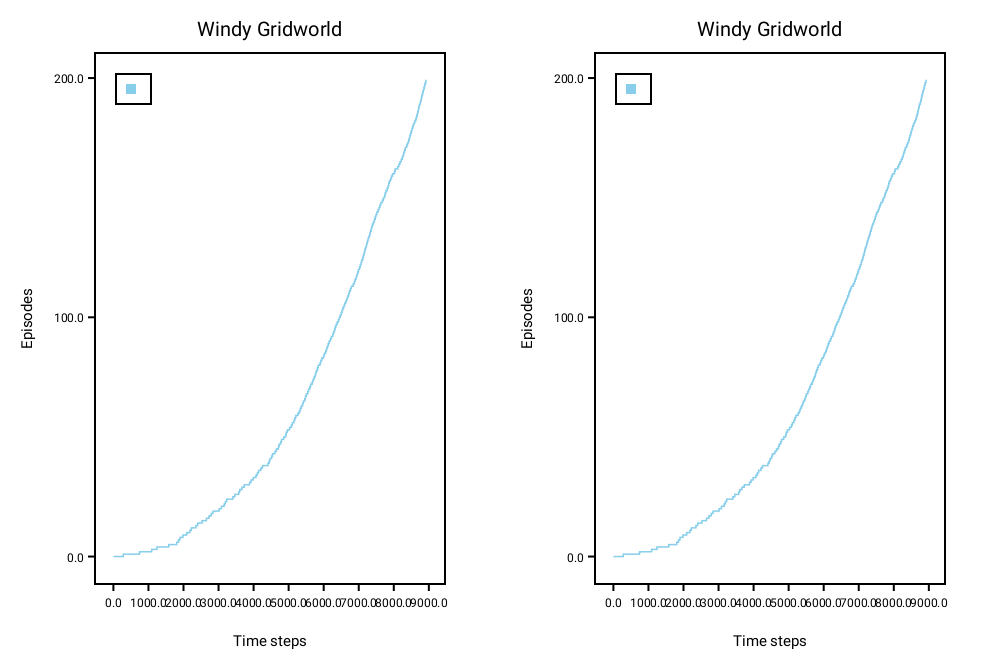
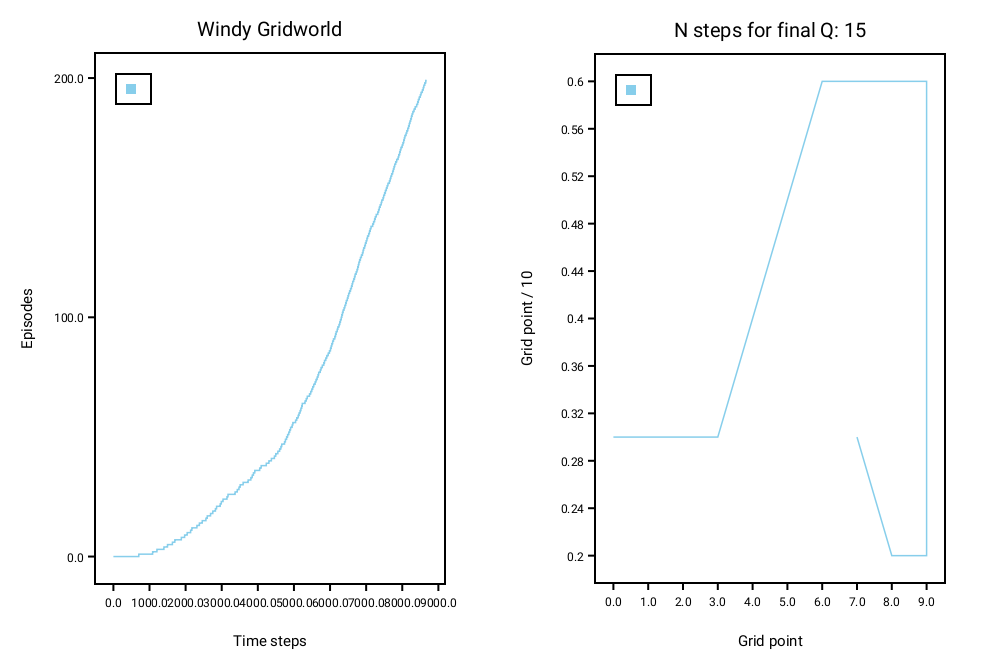
add Fig 6.3, update Examples 6.5, 6.6

diff --git a/Sources/Chapter6/main.swift b/Sources/Chapter6/main.swift
@@ -323,13 +323,13 @@ func make_example_6_5() {
     lineGraph.plotTitle.title = "Windy Gridworld"
 
     var lineGraph2 = LineGraph<Double, Double>()
-    lineGraph2.addSeries(xTrajectory.map { Double($0) }, yTrajectory.map { Double($0) }, label: "")
+    // Bug in SwiftPlot's LineGraph preventing lineGraph2 from being plotted without scaling y values to be less than 2
+    lineGraph2.addSeries(xTrajectory.map { Double($0) }, yTrajectory.map { Double($0) / 10 }, label: "")
     lineGraph2.plotTitle.title = "N steps for final Q: \(xTrajectory.count-1)"
+    lineGraph2.plotLabel.xLabel = "Grid point"
+    lineGraph2.plotLabel.yLabel = "Grid point / 10"
 
-    // Bug in SwiftPlot's LineGraph preventing lineGraph2 from being plotted
-    // Disable for now
-    // subplot.plots = [lineGraph, lineGraph2]
-    subplot.plots = [lineGraph, lineGraph]
+    subplot.plots = [lineGraph, lineGraph2]
     try? subplot.drawGraphAndOutput(fileName: "Output/Chapter6/Example_6.5", renderer: aggRenderer)
 }
 
@@ -347,6 +347,83 @@ func computeMean(allRewardsRuns: [[Int]]) -> [Double] {
     return means
 }
 
+func runSarsa(cliffWorld: CliffWorld, alpha: Double, epsilon: Double, maxEpisodes: Int, initialS: Point, terminalS: Point) -> ([[Double]], [Int]) {
+    var Q = Array(repeating: Array(repeating: 0.0, count: 4), count: cliffWorld.nX * cliffWorld.nY)
+    var nCompletedEpisodes = 0
+    var sumRewardTracker = [Int]()
+
+    while nCompletedEpisodes < maxEpisodes {
+        var S = initialS
+        var A = chooseActionFromQ(Q: Q, S: S, epsilon: epsilon, gridWorld: cliffWorld)
+        var sumReward = 0
+        while S != terminalS {
+            let nextSAndR = cliffWorld.move(S, A)
+            let nextS = nextSAndR.0
+            let R = nextSAndR.1
+            sumReward += R
+
+            let nextA = chooseActionFromQ(Q: Q, S: nextS, epsilon: epsilon, gridWorld: cliffWorld)
+            let currentQ = Q[cliffWorld.gridToInt(S)][A.rawValue]
+            let nextQ = (nextS == terminalS) ? 0 : Q[cliffWorld.gridToInt(nextS)][nextA.rawValue]
+            Q[cliffWorld.gridToInt(S)][A.rawValue] += alpha * (Double(R) + nextQ - currentQ)
+
+            S = nextS
+            A = nextA
+        }
+        nCompletedEpisodes += 1
+        sumRewardTracker.append(sumReward)
+    }
+    return (Q, sumRewardTracker)
+}
+
+func runQLearning(cliffWorld: CliffWorld, alpha: Double, epsilon: Double, maxEpisodes: Int, initialS: Point, terminalS: Point, expectedSarsa: Bool = false) -> ([[Double]], [Int]) {
+    var Q = Array(repeating: Array(repeating: 0.0, count: 4), count: cliffWorld.nX * cliffWorld.nY)
+    var sumRewardTracker = [Int]()
+
+    var nCompletedEpisodes = 0
+    while nCompletedEpisodes < maxEpisodes {
+        var S = initialS
+        var sumReward = 0
+        while S != terminalS {
+            let A = chooseActionFromQ(Q: Q, S: S, epsilon: epsilon, gridWorld: cliffWorld)
+            let nextSAndR = cliffWorld.move(S, A)
+            let nextS = nextSAndR.0
+            let R = nextSAndR.1
+            sumReward += R
+
+            let currentQ = Q[cliffWorld.gridToInt(S)][A.rawValue]
+            var nextQ = 0.0
+
+            if nextS != terminalS {
+                let nextSInt = cliffWorld.gridToInt(nextS)
+                if expectedSarsa {
+                    let maxQ = Q[nextSInt].max()
+                    let maxQIndices = Q[nextSInt].indices.filter { Q[nextSInt][$0] == maxQ }
+
+                    for iAction in 0...3 {
+                        var actionProb = 0.0
+                        if maxQIndices.contains(iAction) {
+                            actionProb = (1.0 - epsilon) / Double(maxQIndices.count) + epsilon / 4.0
+                        } else {
+                            actionProb = epsilon / 4.0
+                        }
+                        nextQ += actionProb * Q[nextSInt][iAction]
+                    }
+                } else {
+                    nextQ = Q[nextSInt].max()!
+                }
+            }
+
+            Q[cliffWorld.gridToInt(S)][A.rawValue] += alpha * (Double(R) + nextQ - currentQ)
+
+            S = nextS
+        }
+        nCompletedEpisodes += 1
+        sumRewardTracker.append(sumReward)
+    }
+    return (Q, sumRewardTracker)
+}
+
 func make_example_6_6() {
     print("Generating Example 6.6")
 
@@ -362,81 +439,37 @@ func make_example_6_6() {
     let terminalS = Point(11, 0)
     let initialS = Point(0, 0)
 
-    var allSumRewards = [[Int]]()
-    var allSumRewards2 = [[Int]]()
+    var allSumRewardsSarsa = [[Int]]()
+    var allSumRewardsQLearning = [[Int]]()
 
     var finalRunSarsaQ = Array(repeating: Array(repeating: 0.0, count: 4), count: nX * nY)
     var finalRunQLearningQ = Array(repeating: Array(repeating: 0.0, count: 4), count: nX * nY)
 
     for _ in 0..<nRuns {
-        // Q: Sarsa, Q2: Q-Learning
-        var Q = Array(repeating: Array(repeating: 0.0, count: 4), count: nX * nY)
-        var Q2 = Array(repeating: Array(repeating: 0.0, count: 4), count: nX * nY)
 
-        var nCompletedEpisodes = 0
-        var sumRewardTracker = [Int]()
-        var sumRewardTracker2 = [Int]()
+        let sarsaQAndTracker = runSarsa(cliffWorld: cliffWorld, alpha: alpha,
+                                        epsilon: epsilon, maxEpisodes: maxEpisodes,
+                                        initialS: initialS, terminalS: terminalS)
+        finalRunSarsaQ = sarsaQAndTracker.0
+        allSumRewardsSarsa.append(sarsaQAndTracker.1)
 
-        // Sarsa
-        while nCompletedEpisodes < maxEpisodes {
-            var S = initialS
-            var A = chooseActionFromQ(Q: Q, S: S, epsilon: epsilon, gridWorld: cliffWorld)
-            var sumReward = 0
-            while S != terminalS {
-                let nextSAndR = cliffWorld.move(S, A)
-                let nextS = nextSAndR.0
-                let R = nextSAndR.1
-                sumReward += R
+        let qLearningQAndTracker = runQLearning(cliffWorld: cliffWorld,
+                                                alpha: alpha, epsilon: epsilon,
+                                                maxEpisodes: maxEpisodes,
+                                                initialS: initialS, terminalS: terminalS)
+        finalRunQLearningQ = qLearningQAndTracker.0
+        allSumRewardsQLearning.append(qLearningQAndTracker.1)
 
-                let nextA = chooseActionFromQ(Q: Q, S: nextS, epsilon: epsilon, gridWorld: cliffWorld)
-                let currentQ = Q[cliffWorld.gridToInt(S)][A.rawValue]
-                let nextQ = (nextS == terminalS) ? 0 : Q[cliffWorld.gridToInt(nextS)][nextA.rawValue]
-                Q[cliffWorld.gridToInt(S)][A.rawValue] += alpha * (Double(R) + nextQ - currentQ)
-
-                S = nextS
-                A = nextA
-            }
-            nCompletedEpisodes += 1
-            sumRewardTracker.append(sumReward)
-        }
-        allSumRewards.append(sumRewardTracker)
-
-        finalRunSarsaQ = Q
-
-        // Q-learning
-        nCompletedEpisodes = 0
-        while nCompletedEpisodes < maxEpisodes {
-            var S = initialS
-            var sumReward2 = 0
-            while S != terminalS {
-                let A = chooseActionFromQ(Q: Q2, S: S, epsilon: epsilon, gridWorld: cliffWorld)
-                let nextSAndR = cliffWorld.move(S, A)
-                let nextS = nextSAndR.0
-                let R = nextSAndR.1
-                sumReward2 += R
-
-                let currentQ = Q2[cliffWorld.gridToInt(S)][A.rawValue]
-                let nextQ = (nextS == terminalS) ? 0 : Q2[cliffWorld.gridToInt(nextS)].max()!
-                Q2[cliffWorld.gridToInt(S)][A.rawValue] += alpha * (Double(R) + nextQ - currentQ)
-
-                S = nextS
-            }
-            nCompletedEpisodes += 1
-            sumRewardTracker2.append(sumReward2)
-        }
-        allSumRewards2.append(sumRewardTracker2)
-
-        finalRunQLearningQ = Q2
     }
-    let averageRewardsRuns = computeMean(allRewardsRuns: allSumRewards)
-    let averageRewardsRuns2 = computeMean(allRewardsRuns: allSumRewards2)
+    let averageRewardsRunsSarsa = computeMean(allRewardsRuns: allSumRewardsSarsa)
+    let averageRewardsRunsQLearning = computeMean(allRewardsRuns: allSumRewardsQLearning)
 
     let aggRenderer: AGGRenderer = AGGRenderer()
     var subplot = SubPlot(layout: .grid(rows: 1, columns: 2))
     var lineGraph = LineGraph<Double, Double>()
 
-    lineGraph.addSeries(Array(0..<maxEpisodes).map { Double($0) }, averageRewardsRuns, label: "Sarsa", color: Color.blue)
-    lineGraph.addSeries(Array(0..<maxEpisodes).map { Double($0) }, averageRewardsRuns2, label: "Q-learning", color: Color.red)
+    lineGraph.addSeries(Array(0..<maxEpisodes).map { Double($0) }, averageRewardsRunsSarsa, label: "Sarsa", color: Color.blue)
+    lineGraph.addSeries(Array(0..<maxEpisodes).map { Double($0) }, averageRewardsRunsQLearning, label: "Q-learning", color: Color.red)
     lineGraph.plotLabel.xLabel = "(Average) sum of rewards during episode"
     lineGraph.plotLabel.yLabel = "Episodes"
     lineGraph.plotTitle.title = "Cliff Walking"
@@ -447,19 +480,142 @@ func make_example_6_6() {
     let (xTrajectory2, yTrajectory2) = getGreedyTrajectory(initialS: initialS, terminalS: terminalS,
                                                            Q: finalRunQLearningQ, gridWorld: cliffWorld)
 
-    var lineGraph2 = LineGraph<Double, Double>()
-    lineGraph2.addSeries(xTrajectory.map { Double($0) }, yTrajectory.map { Double($0) }, label: "Sarsa", color: Color.blue)
-    lineGraph2.addSeries(xTrajectory2.map { Double($0) }, yTrajectory2.map { Double($0) }, label: "Q-learning", color: Color.red)
+    var lineGraph2 = LineGraph<Double, Double>(enablePrimaryAxisGrid: true)
+    // Bug in SwiftPlot's LineGraph preventing lineGraph2 from being plotted without scaling y values to be less than 2
+    lineGraph2.addSeries(xTrajectory.map { Double($0) }, yTrajectory.map { Double($0) / 100 }, label: "Sarsa", color: Color.blue)
+    lineGraph2.addSeries(xTrajectory2.map { Double($0) }, yTrajectory2.map { Double($0) / 100 }, label: "Q-learning", color: Color.red)
+    lineGraph2.plotLabel.xLabel = "grid point"
+    lineGraph2.plotLabel.yLabel = "grid point / 100"
     lineGraph2.plotTitle.title = "Sample final greedy policy"
-
-    // Bug in SwiftPlot's LineGraph preventing lineGraph2 from being plotted
-    // Disable for now
-    // subplot.plots = [lineGraph, lineGraph2]
-    subplot.plots = [lineGraph, lineGraph]
+    subplot.plots = [lineGraph, lineGraph2]
     try? subplot.drawGraphAndOutput(fileName: "Output/Chapter6/Example_6.6", renderer: aggRenderer)
+}
+
+func make_figure_6_3() {
+    print("Generating Figure 6.3")
+
+    let nX = 12
+    let nY = 4
+    let cliffWorld = CliffWorld(nX, nY)
+
+    let alphas = stride(from: 0.1, to: 1.05, by: 0.05)
+    let epsilon = 0.1
+    let terminalS = Point(11, 0)
+    let initialS = Point(0, 0)
+
+    func computeAverageSumRewardsPerEpisode(sumRewardsInEpisode: [[Int]], numEpisodes: Int, numRuns: Int) -> Double {
+        let sumRewardsPerEpisode = sumRewardsInEpisode.map { Double($0.reduce(0, +)) / Double(numEpisodes) }
+        return Double(sumRewardsPerEpisode.reduce(0, +)) / Double(numRuns)
+    }
+
+    // interim performance
+    // var nRuns = 50000
+    var nRuns = 5000
+    var maxEpisodes = 100
+
+    var avgSumRewardsPerEpisodePerAlphaSarsa = [Double]()
+    var avgSumRewardsPerEpisodePerAlphaQLearning = [Double]()
+    var avgSumRewardsPerEpisodePerAlphaExpSarsa = [Double]()
+
+    for alpha in alphas {
+        print(alpha)
+        var allSumRewardsSarsa = [[Int]]()
+        var allSumRewardsQLearning = [[Int]]()
+        var allSumRewardsExpSarsa = [[Int]]()
+
+        for _ in 0..<nRuns {
+            let sarsaQAndTracker = runSarsa(cliffWorld: cliffWorld, alpha: alpha,
+                                            epsilon: epsilon, maxEpisodes: maxEpisodes,
+                                            initialS: initialS, terminalS: terminalS)
+            allSumRewardsSarsa.append(sarsaQAndTracker.1)
+
+            let qLearningQAndTracker = runQLearning(cliffWorld: cliffWorld,
+                                                    alpha: alpha, epsilon: epsilon,
+                                                    maxEpisodes: maxEpisodes,
+                                                    initialS: initialS, terminalS: terminalS)
+            allSumRewardsQLearning.append(qLearningQAndTracker.1)
+
+            let expSarsaQAndTracker = runQLearning(cliffWorld: cliffWorld,
+                                                    alpha: alpha, epsilon: epsilon,
+                                                    maxEpisodes: maxEpisodes,
+                                                    initialS: initialS, terminalS: terminalS, expectedSarsa: true)
+            allSumRewardsExpSarsa.append(expSarsaQAndTracker.1)
+
+        }
+
+        let avgSumRewardsPerEpisodeSarsa = computeAverageSumRewardsPerEpisode(sumRewardsInEpisode: allSumRewardsSarsa, numEpisodes: maxEpisodes, numRuns: nRuns)
+        avgSumRewardsPerEpisodePerAlphaSarsa.append(avgSumRewardsPerEpisodeSarsa)
+
+        let avgSumRewardsPerEpisodeQLearning = computeAverageSumRewardsPerEpisode(sumRewardsInEpisode: allSumRewardsQLearning, numEpisodes: maxEpisodes, numRuns: nRuns)
+        avgSumRewardsPerEpisodePerAlphaQLearning.append(avgSumRewardsPerEpisodeQLearning)
+
+        let avgSumRewardsPerEpisodeExpSarsa = computeAverageSumRewardsPerEpisode(sumRewardsInEpisode: allSumRewardsExpSarsa, numEpisodes: maxEpisodes, numRuns: nRuns)
+        avgSumRewardsPerEpisodePerAlphaExpSarsa.append(avgSumRewardsPerEpisodeExpSarsa)
+    }
+
+    let aggRenderer: AGGRenderer = AGGRenderer()
+    var lineGraph = LineGraph<Double, Double>()
+    lineGraph.addSeries(alphas.map { Double($0) }, avgSumRewardsPerEpisodePerAlphaSarsa.map { $0 / 1000.0 }, label: "Sarsa (Interim)", color: Color.blue)
+    lineGraph.addSeries(alphas.map { Double($0) }, avgSumRewardsPerEpisodePerAlphaQLearning.map { $0 / 1000.0 }, label: "Q-learning (Interim)", color: Color.gray)
+    lineGraph.addSeries(alphas.map { Double($0) }, avgSumRewardsPerEpisodePerAlphaExpSarsa.map { $0 / 1000.0 }, label: "Expected (Interim)", color: Color.red)
+
+    // asymptotic performance
+    nRuns = 10
+    maxEpisodes = 100000
+
+    avgSumRewardsPerEpisodePerAlphaSarsa = [Double]()
+    avgSumRewardsPerEpisodePerAlphaQLearning = [Double]()
+    avgSumRewardsPerEpisodePerAlphaExpSarsa = [Double]()
+
+    for alpha in alphas {
+        print(alpha)
+        var allSumRewardsSarsa = [[Int]]()
+        var allSumRewardsQLearning = [[Int]]()
+        var allSumRewardsExpSarsa = [[Int]]()
+
+        for _ in 0..<nRuns {
+            let sarsaQAndTracker = runSarsa(cliffWorld: cliffWorld, alpha: alpha,
+                                            epsilon: epsilon, maxEpisodes: maxEpisodes,
+                                            initialS: initialS, terminalS: terminalS)
+            allSumRewardsSarsa.append(sarsaQAndTracker.1)
+
+            let qLearningQAndTracker = runQLearning(cliffWorld: cliffWorld,
+                                                    alpha: alpha, epsilon: epsilon,
+                                                    maxEpisodes: maxEpisodes,
+                                                    initialS: initialS, terminalS: terminalS)
+            allSumRewardsQLearning.append(qLearningQAndTracker.1)
+
+            let expSarsaQAndTracker = runQLearning(cliffWorld: cliffWorld,
+                                                    alpha: alpha, epsilon: epsilon,
+                                                    maxEpisodes: maxEpisodes,
+                                                    initialS: initialS, terminalS: terminalS, expectedSarsa: true)
+            allSumRewardsExpSarsa.append(expSarsaQAndTracker.1)
+
+        }
+
+        let avgSumRewardsPerEpisodeSarsa = computeAverageSumRewardsPerEpisode(sumRewardsInEpisode: allSumRewardsSarsa, numEpisodes: maxEpisodes, numRuns: nRuns)
+        avgSumRewardsPerEpisodePerAlphaSarsa.append(avgSumRewardsPerEpisodeSarsa)
+
+        let avgSumRewardsPerEpisodeQLearning = computeAverageSumRewardsPerEpisode(sumRewardsInEpisode: allSumRewardsQLearning, numEpisodes: maxEpisodes, numRuns: nRuns)
+        avgSumRewardsPerEpisodePerAlphaQLearning.append(avgSumRewardsPerEpisodeQLearning)
+
+        let avgSumRewardsPerEpisodeExpSarsa = computeAverageSumRewardsPerEpisode(sumRewardsInEpisode: allSumRewardsExpSarsa, numEpisodes: maxEpisodes, numRuns: nRuns)
+        avgSumRewardsPerEpisodePerAlphaExpSarsa.append(avgSumRewardsPerEpisodeExpSarsa)
+    }
+
+    // Bug in SwiftPlot's LineGraph preventing lineGraph from being plotted without scaling y values to be less than 2
+    lineGraph.addSeries(alphas.map { Double($0) }, avgSumRewardsPerEpisodePerAlphaSarsa.map { $0 / 1000.0 }, label: "Sarsa (Asymptotic)", color: Color.darkBlue)
+    lineGraph.addSeries(alphas.map { Double($0) }, avgSumRewardsPerEpisodePerAlphaQLearning.map { $0 / 1000.0 }, label: "Q-learning (Asymptotic)", color: Color.darkGray)
+    lineGraph.addSeries(alphas.map { Double($0) }, avgSumRewardsPerEpisodePerAlphaExpSarsa.map { $0 / 1000.0 }, label: "Expected (Asymptotic)", color: Color.darkRed)
+
+    lineGraph.plotLabel.xLabel = "alpha"
+    lineGraph.plotLabel.yLabel = "Average sum of rewards per episode / 1000"
+    lineGraph.plotTitle.title = "Cliff Walking"
+    try? lineGraph.drawGraphAndOutput(fileName: "Output/Chapter6/Fig_6.3", renderer: aggRenderer)
 }
 
 make_example_6_2()
 make_figure_6_2()
 make_example_6_5()
 make_example_6_6()
+make_figure_6_3()

diff --git a/README.md b/README.md
@@ -16,4 +16,4 @@ To run the code for a given chapter, execute `swift run Chapter<N>`.
 | 3: Finite Markov Decision Processes | [3.2](Output/Chapter3/Fig_3.2.png), [3.5](Output/Chapter3/Fig_3.5.png) |
 | 4: Dynamic Programming | [4.1](Output/Chapter4/Fig_4.1.png), [4.2](Output/Chapter4/Fig_4.2.png), [4.3](Output/Chapter4/Fig_4.3.png) |
 | 5: Monte Carlo Methods | [5.1](Output/Chapter5/Fig_5.1.png), [5.2](Output/Chapter5/Fig_5.2.png), [5.3](Output/Chapter5/Fig_5.3.png), [5.4](Output/Chapter5/Fig_5.4.png) |
-| 6: Temporal-Difference Learning | [Ex 6.2](Output/Chapter6/Example_6.2.png), [6.2](Output/Chapter6/Fig_6.2.png), [Ex 6.5](Output/Chapter6/Example_6.5.png), [Ex 6.6](Chapter6/Example_6.6.png) |
+| 6: Temporal-Difference Learning | [Ex 6.2](Output/Chapter6/Example_6.2.png), [6.2](Output/Chapter6/Fig_6.2.png), [Ex 6.5](Output/Chapter6/Example_6.5.png), [Ex 6.6](Output/Chapter6/Example_6.6.png), [6.3](Output/Chapter6/Fig_6.3.png) |
